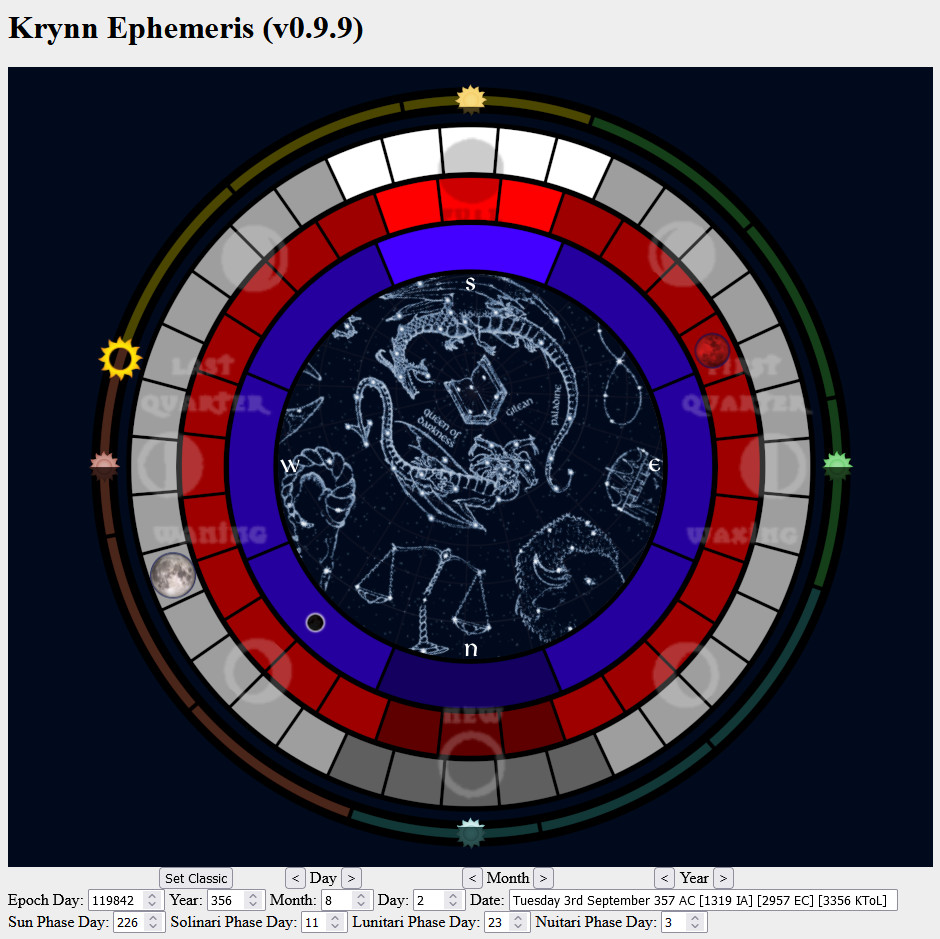
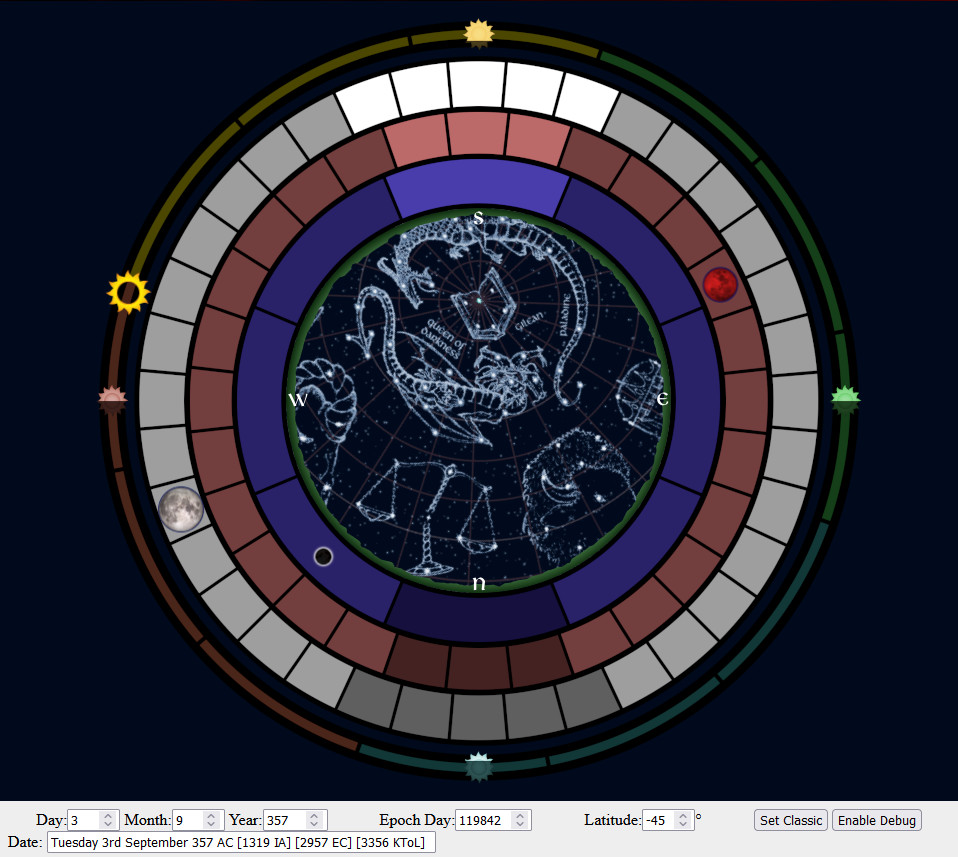
Update constellations image and add many customization options

diff --git a/HtmlKrynnEphemeris.html b/HtmlKrynnEphemeris.html
@@ -1,10 +1,10 @@
 <html>
 <head>
[1 lines of base64/hex data omitted]
+<link rel="icon" type="image/png" href="./favicon.png" />
 <meta charset="utf-8" />
 <meta http-equiv="Content-Style-Type" content="text/css" />
 <meta http-equiv="Content-Script-Type" content="text/javascript" />
-<title>Krynn Ephemeris v0.9.92</title>
+<title>Krynn Ephemeris v0.9.95</title>
 <script src="./HtmlKrynnEphemeris.js"></script>
 <style>@import url("HtmlKrynnEphemeris.css");</style>
 </head>
@@ -75,12 +75,24 @@ Z-Year: <input id="ID_calendaryYear" type="number" step="1" size="6" value="0" o
 Z-Month: <input id="ID_calendaryMonth" type="number" step="1" size="4" value="0" min="0" max="11" onchange="on_change_calendar_date(true)" onkeyup="on_change_calendar_date(true)" />
 Z-Day: <input id="ID_calendaryDay" type="number" step="1" size="4" value="0" min="0" max="27" onchange="on_change_calendar_date(true)" onkeyup="on_change_calendar_date(true)" />
 
+Starfield: <input id="ID_skychartStarfieldIntensity" type="number" step="1" size="3" value="2" min="0" max="10" onchange="on_change_skychart_starfield_intensity(true)" onkeyup="on_change_skychart_starfield_intensity(true)" />
+Grid: <input id="ID_skychartGridIntensity" type="number" step="1" size="3" value="3" min="0" max="10" onchange="on_change_skychart_grid_intensity(true)" onkeyup="on_change_skychart_grid_intensity(true)" />
+Phases: <input id="ID_moonPhasesDecorationIntensity" type="number" step="1" size="3" value="0" min="0" max="10" onchange="on_change_moon_phases_intensity(true)" onkeyup="on_change_moon_phases_intensity(true)" />
+
 <br />
 
-Sun Phase Day: <input id="ID_phaseDay_Sun" type="text" size="3" value="0" readonly="readonly" />
-Solinari Phase Day: <input id="ID_phaseDay_Solinari" type="text" size="2" value="0" readonly="readonly" />
-Lunitari Phase Day: <input id="ID_phaseDay_Lunitari" type="text" size="2" value="0" readonly="readonly" />
-Nuitari Phase Day: <input id="ID_phaseDay_Nuitari" type="text" size="2" value="0" readonly="readonly" />
+<b>Phase Days Today:</b>
+Sun: <input id="ID_phaseDay_Sun" type="text" size="3" value="0" readonly="readonly" />
+Solinari: <input id="ID_phaseDay_Solinari" type="text" size="2" value="0" readonly="readonly" />
+Lunitari: <input id="ID_phaseDay_Lunitari" type="text" size="2" value="0" readonly="readonly" />
+Nuitari: <input id="ID_phaseDay_Nuitari" type="text" size="2" value="0" readonly="readonly" />
+
+<br />
+
+<b>Phase Days at Day Zero:</b>
+Solinari: <input id="ID_phaseDayAtDayZero_Solinari" type="number" size="2" value="13" min="0" max="35" onchange="on_change_moon_phase_days_at_day_zero(true)" onkeyup="on_change_moon_phase_days_at_day_zero(true)" />
+Lunitari: <input id="ID_phaseDayAtDayZero_Lunitari" type="number" size="2" value="21" min="0" max="27" onchange="on_change_moon_phase_days_at_day_zero(true)" onkeyup="on_change_moon_phase_days_at_day_zero(true)" />
+Nuitari: <input id="ID_phaseDayAtDayZero_Nuitari" type="number" size="2" value="1" min="0" max="7" onchange="on_change_moon_phase_days_at_day_zero(true)" onkeyup="on_change_moon_phase_days_at_day_zero(true)" />
 
 </div>
 
@@ -240,6 +252,50 @@ function on_change_latitude(p_redraw_all)
    }
 }
 
+function on_change_skychart_starfield_intensity(p_redraw_all)
+{
+   g_global_data.m_skychart_starfield_intensity = getIntegerById("ID_skychartStarfieldIntensity");
+
+   if(p_redraw_all)
+   {
+      redraw_all();
+   }
+}
+
+function on_change_skychart_grid_intensity(p_redraw_all)
+{
+   g_global_data.m_skychart_grid_intensity = getIntegerById("ID_skychartGridIntensity");
+
+   if(p_redraw_all)
+   {
+      redraw_all();
+   }
+}
+
+function on_change_moon_phases_intensity(p_redraw_all)
+{
+   g_global_data.m_moon_phases_decoration_intensity = getIntegerById("ID_moonPhasesDecorationIntensity");
+
+   if(p_redraw_all)
+   {
+      redraw_all();
+   }
+}
+
+function on_change_moon_phase_days_at_day_zero(p_redraw_all)
+{
+   g_global_data.m_solinariPhaseAtDayZero = getIntegerById("ID_phaseDayAtDayZero_Solinari");
+   g_global_data.m_lunitariPhaseAtDayZero = getIntegerById("ID_phaseDayAtDayZero_Lunitari");
+   g_global_data.m_nuitariPhaseAtDayZero = getIntegerById("ID_phaseDayAtDayZero_Nuitari");
+
+   update_by_epoch_day();
+   update_phases_by_epoch_day();
+   
+   if(p_redraw_all)
+   {
+      redraw_all();
+   }
+}
 
 function on_change_calendar_date(p_redraw_all)
 {
@@ -386,7 +442,7 @@ function get_location_search_info(p_redraw_all)
          update_debug_visibility();
       }
    }
-   
+
    let latitude = parseInt(params.get('latitude'), 10);
    if((! isNaN(latitude)) && (latitude != g_global_data.m_latitude))
    {
@@ -394,7 +450,55 @@ function get_location_search_info(p_redraw_all)
       setValueById("ID_latitude", g_global_data.m_latitude);
       on_change_latitude(p_redraw_all);
    }
-   
+
+   let starfield_intensity = parseInt(params.get('starfield_intensity'), 10);
+   if((! isNaN(starfield_intensity)) && (starfield_intensity != g_global_data.m_skychart_starfield_intensity))
+   {
+      g_global_data.m_skychart_starfield_intensity = starfield_intensity;
+      setValueById("ID_skychartStarfieldIntensity", g_global_data.m_skychart_starfield_intensity);
+      on_change_skychart_starfield_intensity(p_redraw_all);
+   }
+
+   let grid_intensity = parseInt(params.get('grid_intensity'), 10);
+   if((! isNaN(grid_intensity)) && (grid_intensity != g_global_data.m_skychart_grid_intensity))
+   {
+      g_global_data.m_skychart_grid_intensity = grid_intensity;
+      setValueById("ID_skychartGridIntensity", g_global_data.m_skychart_grid_intensity);
+      on_change_skychart_grid_intensity(p_redraw_all);
+   }
+
+   let moon_phases_intensity = parseInt(params.get('moon_phases_intensity'), 10);
+   if((! isNaN(moon_phases_intensity)) && (moon_phases_intensity != g_global_data.m_moon_phases_decoration_intensity))
+   {
+      g_global_data.m_moon_phases_decoration_intensity = moon_phases_intensity;
+      setValueById("ID_moonPhasesDecorationIntensity", g_global_data.m_moon_phases_decoration_intensity);
+      on_change_skychart_starfield_intensity(p_redraw_all);
+   }
+
+   let solinari_phase_day_zero = parseInt(params.get('solinari_phase_day_zero'), 10);
+   if((! isNaN(solinari_phase_day_zero)) && (solinari_phase_day_zero != g_global_data.m_solinariPhaseAtDayZero))
+   {
+      g_global_data.m_solinariPhaseAtDayZero = solinari_phase_day_zero;
+      setValueById("ID_phaseDayAtDayZero_Solinari", g_global_data.m_solinariPhaseAtDayZero);
+      on_change_moon_phase_days_at_day_zero(p_redraw_all);
+   }
+
+   let lunitari_phase_day_zero = parseInt(params.get('lunitari_phase_day_zero'), 10);
+   if((! isNaN(lunitari_phase_day_zero)) && (lunitari_phase_day_zero != g_global_data.m_lunitariPhaseAtDayZero))
+   {
+      g_global_data.m_lunitariPhaseAtDayZero = lunitari_phase_day_zero;
+      setValueById("ID_phaseDayAtDayZero_Lunitari", g_global_data.m_lunitariPhaseAtDayZero);
+      on_change_moon_phase_days_at_day_zero(p_redraw_all);
+   }
+
+   let nuitari_phase_day_zero = parseInt(params.get('nuitari_phase_day_zero'), 10);
+   if((! isNaN(nuitari_phase_day_zero)) && (nuitari_phase_day_zero != g_global_data.m_nuitariPhaseAtDayZero))
+   {
+      g_global_data.m_nuitariPhaseAtDayZero = nuitari_phase_day_zero;
+      setValueById("ID_phaseDayAtDayZero_Nuitari", g_global_data.m_nuitariPhaseAtDayZero);
+      on_change_moon_phase_days_at_day_zero(p_redraw_all);
+   }
+
    let epoch = parseInt(params.get('epoch'), 10);
    if((! isNaN(epoch)) && (epoch != g_global_data.m_epochDay))
    {
@@ -412,12 +516,42 @@ function set_location_search_info()
    let s = window.location.pathname;
    s += '?epoch=' + g_global_data.m_epochDay;
    s += '&taladas_or_classic=' + (g_global_data.m_is_taladas ? 'taladas' : 'classic');
-   
+
    if(g_global_data.m_latitude != -45)
    {
       s += '&latitude=' + g_global_data.m_latitude;
    }
-   
+
+   if(g_global_data.m_skychart_starfield_intensity != 2)
+   {
+      s += '&starfield_intensity=' + g_global_data.m_skychart_starfield_intensity;
+   }
+
+   if(g_global_data.m_skychart_grid_intensity != 3)
+   {
+      s += '&grid_intensity=' + g_global_data.m_skychart_grid_intensity;
+   }
+
+   if(g_global_data.m_moon_phases_decoration_intensity != 0)
+   {
+      s += '&moon_phases_intensity=' + g_global_data.m_moon_phases_decoration_intensity;
+   }
+
+   if(g_global_data.m_solinariPhaseAtDayZero != g_global_data.c_solinariPhaseAtDayZero)
+   {
+      s += '&solinari_phase_day_zero=' + g_global_data.m_solinariPhaseAtDayZero;
+   }
+
+   if(g_global_data.m_lunitariPhaseAtDayZero != g_global_data.c_lunitariPhaseAtDayZero)
+   {
+      s += '&lunitari_phase_day_zero=' + g_global_data.m_lunitariPhaseAtDayZero;
+   }
+
+   if(g_global_data.m_nuitariPhaseAtDayZero != g_global_data.c_nuitariPhaseAtDayZero)
+   {
+      s += '&nuitari_phase_day_zero=' + g_global_data.m_nuitariPhaseAtDayZero;
+   }
+
    if(is_debug_visible())
    {
       s += '&debug=true';
@@ -543,9 +677,11 @@ div#ID_debugControls
 <img id="ID_imageNuitari" src="./moon.nuitari.png" /><br />
 <img id="ID_imageSun" src="./sun.png" /><br />
 <img id="ID_imageSkyChart" src="./sky_chart.png" /><br />
+<img id="ID_imageSkyChartGrid" src="./sky_chart_grid.png" /><br />
+<img id="ID_imageSkyChartStarfield" src="./sky_chart_starfield.png" /><br />
 <img id="ID_imageCompass" src="./decoration.compass.png" /><br />
 <img id="ID_imageHorizon" src="./decoration.horizon.png" /><br />
-<img id="ID_imageMoonPhases" src="./decoration.moon_phases.png" /><br />
+<img id="ID_imageMoonPhasesDecoration" src="./decoration.moon_phases.png" /><br />
 </div>
 
 </body>

diff --git a/HtmlKrynnEphemeris.js b/HtmlKrynnEphemeris.js
@@ -38,6 +38,10 @@ function HephemerisData()
    this.c_lunitariPhaseAtDayZero = 21;
    this.c_nuitariPhaseAtDayZero = 1;
 
+   this.m_solinariPhaseAtDayZero = this.c_solinariPhaseAtDayZero;
+   this.m_lunitariPhaseAtDayZero = this.c_lunitariPhaseAtDayZero;
+   this.m_nuitariPhaseAtDayZero = this.c_nuitariPhaseAtDayZero;
+
    this.c_sunPhasePeriod = 336;
    this.c_solinariPhasePeriod = 36;
    this.c_lunitariPhasePeriod = 28;
@@ -53,6 +57,25 @@ function HephemerisData()
    // 119842 : Tuesday 3rd September 357 AC [1319 IA] [2957 EC] [3356 KToL]
    this.m_epochDay = 119842;
    this.m_latitude = -45;
+   
+   this.m_skychart_starfield_intensity = 2;
+   this.m_skychart_grid_intensity = 3;
+   this.m_moon_phases_decoration_intensity = 0;
+}
+
+HephemerisData.prototype.getMoonPhasesDecorationIntensity = function()
+{
+   return this.m_moon_phases_decoration_intensity;
+}
+
+HephemerisData.prototype.getSkyChartStarfieldIntensity = function()
+{
+   return this.m_skychart_starfield_intensity;
+}
+
+HephemerisData.prototype.getSkyChartGridIntensity = function()
+{
+   return this.m_skychart_grid_intensity;
 }
 
 HephemerisData.prototype.getSunPhase = function()
@@ -62,17 +85,17 @@ HephemerisData.prototype.getSunPhase = function()
 
 HephemerisData.prototype.getSolinariPhase = function()
 {
-   return modulo(this.m_epochDay + this.c_solinariPhaseAtDayZero, this.c_solinariPhasePeriod);
+   return modulo(this.m_epochDay + this.m_solinariPhaseAtDayZero, this.c_solinariPhasePeriod);
 }
 
 HephemerisData.prototype.getLunitariPhase = function()
 {
-   return modulo(this.m_epochDay + this.c_lunitariPhaseAtDayZero, this.c_lunitariPhasePeriod);
+   return modulo(this.m_epochDay + this.m_lunitariPhaseAtDayZero, this.c_lunitariPhasePeriod);
 }
 
 HephemerisData.prototype.getNuitariPhase = function()
 {
-   return modulo(this.m_epochDay + this.c_nuitariPhaseAtDayZero, this.c_nuitariPhasePeriod);
+   return modulo(this.m_epochDay + this.m_nuitariPhaseAtDayZero, this.c_nuitariPhasePeriod);
 }
 
 HephemerisData.prototype.toString = function()
@@ -80,9 +103,9 @@ HephemerisData.prototype.toString = function()
    let a = [];
 
    //a.push("- ", "c_sunPhaseAtDayZero", ": ", this.c_sunPhaseAtDayZero,"\n");
-   a.push("- ", "c_solinariPhaseAtDayZero", ": ", this.c_solinariPhaseAtDayZero,"\n");
-   a.push("- ", "c_lunitariPhaseAtDayZero", ": ", this.c_lunitariPhaseAtDayZero,"\n");
-   a.push("- ", "c_nuitariPhaseAtDayZero", ": ", this.c_nuitariPhaseAtDayZero,"\n");
+   a.push("- ", "m_solinariPhaseAtDayZero", ": ", this.m_solinariPhaseAtDayZero,"\n");
+   a.push("- ", "m_lunitariPhaseAtDayZero", ": ", this.m_lunitariPhaseAtDayZero,"\n");
+   a.push("- ", "m_nuitariPhaseAtDayZero", ": ", this.m_nuitariPhaseAtDayZero,"\n");
    a.push("- ", "c_sunPhasePeriod", ": ", this.c_sunPhasePeriod,"\n");
    a.push("- ", "c_solinariPhasePeriod", ": ", this.c_solinariPhasePeriod,"\n");
    a.push("- ", "c_lunitariPhasePeriod", ": ", this.c_lunitariPhasePeriod,"\n");
@@ -195,6 +218,8 @@ function draw_sky_chart(p_data, p_sun_phase, p_sun_phase_max, p_sky_chart_image_
 
    // sky chart map
    const sky_chart_img = document.getElementById("ID_imageSkyChart");
+   const sky_chart_grid_img = document.getElementById("ID_imageSkyChartGrid");
+   const sky_chart_starfield_img = document.getElementById("ID_imageSkyChartStarfield");
 
    const sky_chart_pos = deduce_canvas_sky_chart_coordinates(p_data.getSunPhase(), p_sun_phase_max, p_sky_chart_image_size);
    
@@ -208,7 +233,19 @@ function draw_sky_chart(p_data, p_sun_phase, p_sun_phase_max, p_sky_chart_image_
    ctx.translate(0, +vertical_offset);
    ctx.translate(-canvas_x_size/2, -canvas_y_size/2);
 
+   const sky_chart_starfield_intensity = p_data.getSkyChartStarfieldIntensity();
+   const sky_chart_grid_intensity = p_data.getSkyChartGridIntensity();
 
+   for(let i = 0; i < sky_chart_starfield_intensity; ++i)
+   {
+      ctx.drawImage(sky_chart_starfield_img, 0, -vertical_offset);
+   }
+
+   for(let i = 0; i < sky_chart_grid_intensity; ++i)
+   {
+      ctx.drawImage(sky_chart_grid_img, 0, -vertical_offset);
+   }
+   
    ctx.drawImage(sky_chart_img, 0, -vertical_offset);
 
    // Reset transformation matrix to the identity matrix
@@ -339,8 +376,13 @@ function draw_map(p_data)
    ctx.drawImage(map_img, 0, 0);
 
    // moon phases map
-   const moon_phases_img = document.getElementById("ID_imageMoonPhases");
-   ctx.drawImage(moon_phases_img, 0, 0);
+   const moon_phases_decoration_img = document.getElementById("ID_imageMoonPhasesDecoration");
+   
+   const moon_phases_decoration_intensity = p_data.getMoonPhasesDecorationIntensity();
+   for(let i = 0; i < moon_phases_decoration_intensity; ++i)
+   {
+      ctx.drawImage(moon_phases_decoration_img, 0, 0);
+   }
 
    draw_sun(p_data.m_is_taladas, p_data.getSunPhase());
    draw_moon_solinari(p_data.m_is_taladas, p_data.getSolinariPhase());
